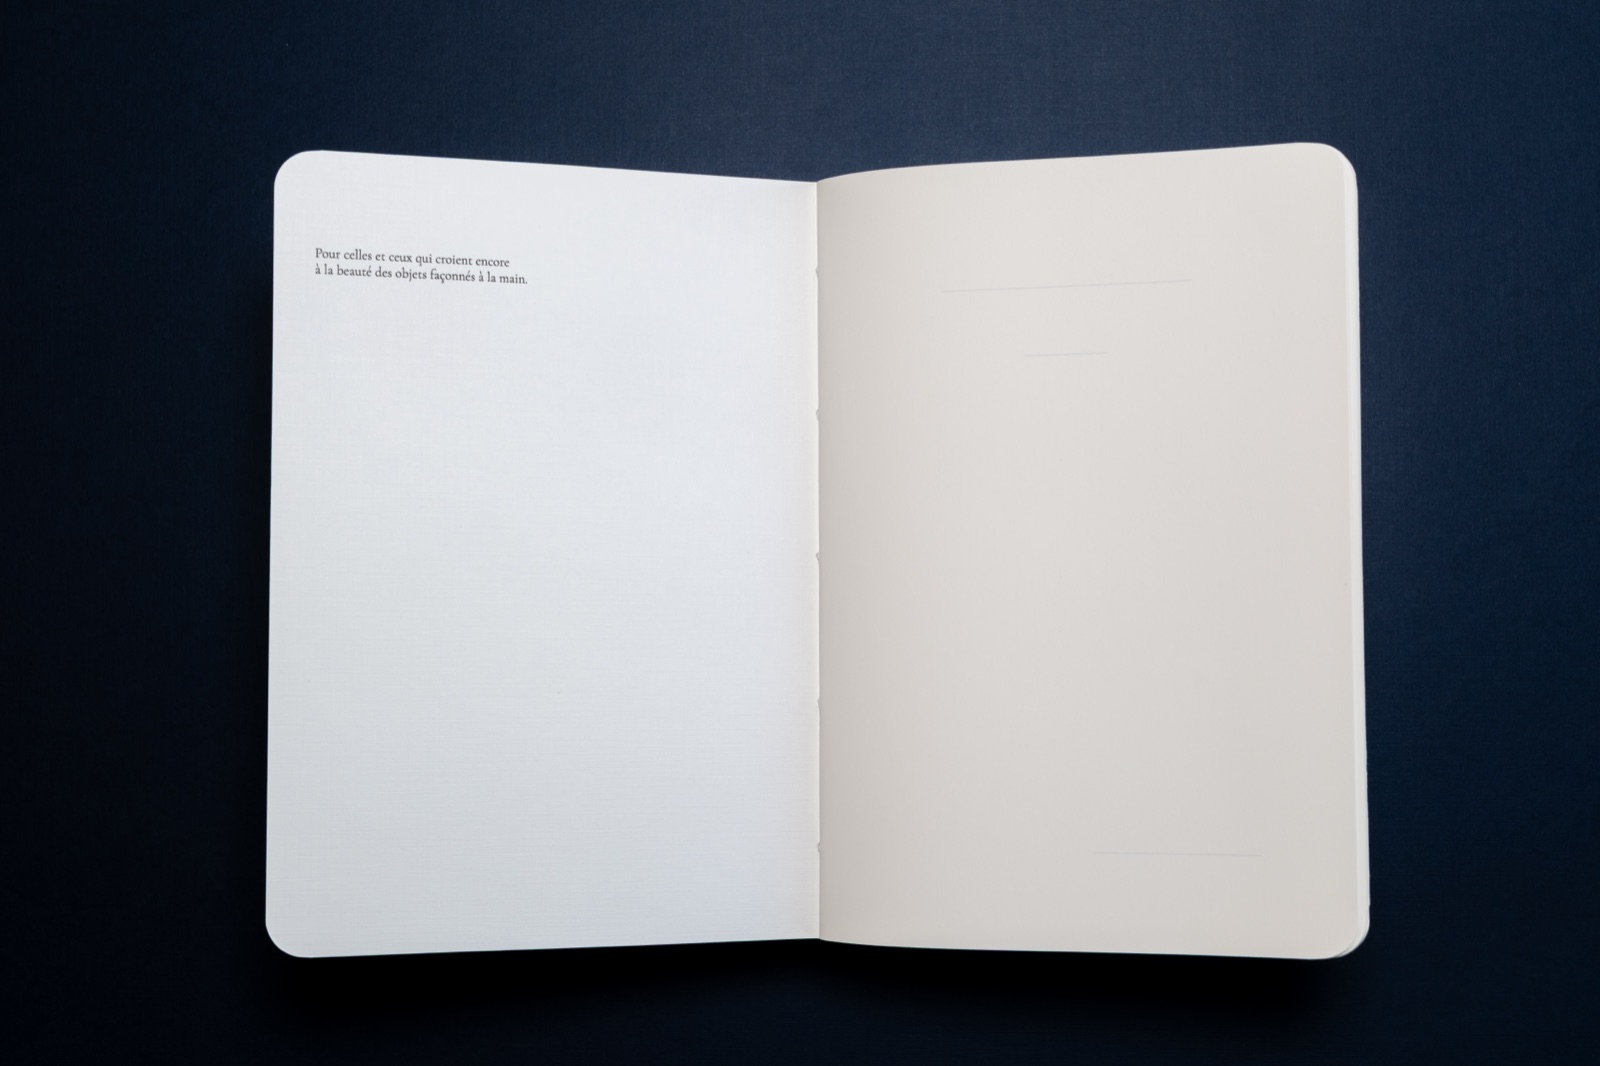
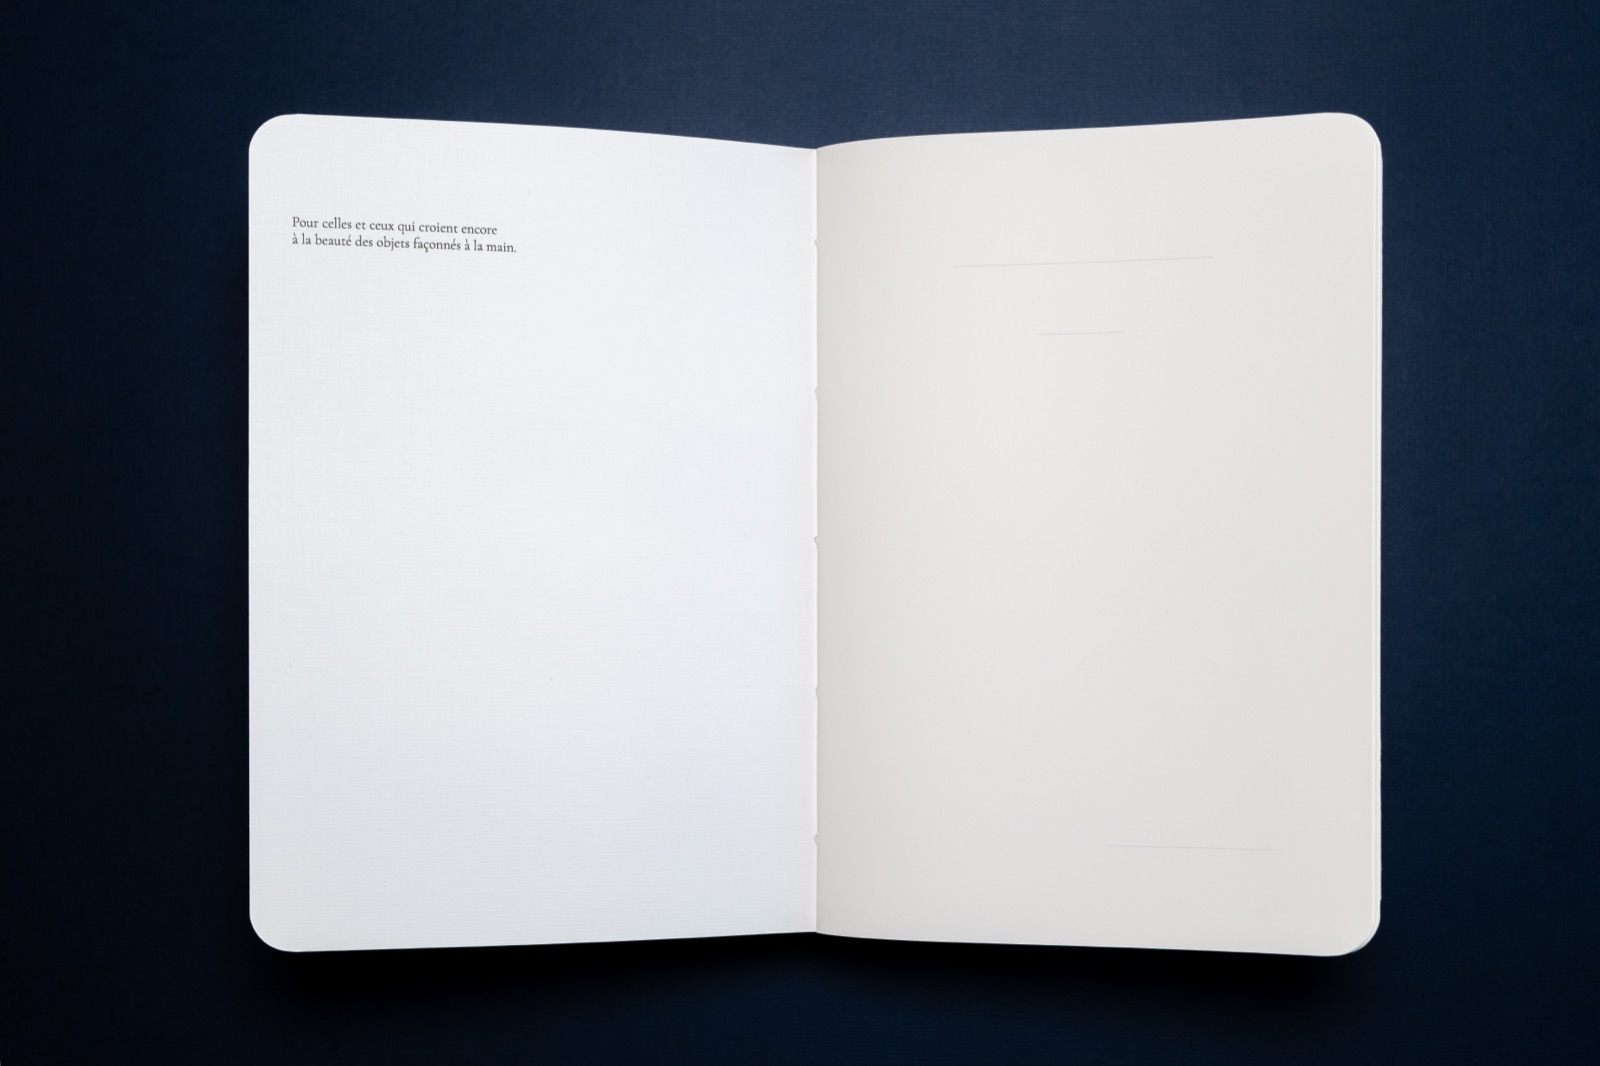
Wire five new photos and fix audit findings across Naver pages
New: red stamp colophon (URL cropped out), sharper dedication spread
and macro, pocket scale shot on robey-pocket, desk scene on Monjo pages.
Fixes: A5 hero showed the A6 notebook (swapped, wide shot moved to its
rightful home as the monjo-pocket hero), Robey posture captions matched
to the artwork, robey-001 binding image now shows the thread, packaging
captions name the pictured edition, stitch and pen claims calibrated.

Changed region(s): [[0.1562, 0.0929, 0.875, 0.8977], [0.5, 0.6811, 0.5312, 0.7739]]

diff --git a/naver/robey-001-a5.html b/naver/robey-001-a5.html
@@ -26,7 +26,7 @@
     <h2 style="margin:0 0 26px;font-size:44px;line-height:1.34;color:#211d19;">먼저, 러비가 인사를 전합니다.</h2>
     <div style="padding:40px 36px;border:1px solid #eadfce;background:#fffdf8;border-radius:12px;">
       <p style="margin:0 0 22px;font-size:28px;color:#4b443c;">안녕하세요. 제 이름은 러비입니다. 저는 서울을 조금씩 알아가는 중입니다.</p>
-      <p style="margin:0 0 22px;font-size:28px;color:#4b443c;">이번에는 꽃잎이 지는 창가에 한참 서 있었습니다. 그곳에서 무엇을 보고 어떤 생각을 했는지는, 노트와 함께 가는 편지에 적어 두었습니다.</p>
+      <p style="margin:0 0 22px;font-size:28px;color:#4b443c;">이번에는 꽃잎이 지는 창가에 한참 머물렀습니다. 그곳에서 무엇을 보고 어떤 생각을 했는지는, 노트와 함께 가는 편지에 적어 두었습니다.</p>
       <p style="margin:0 0 22px;font-size:28px;color:#4b443c;">노트가 도착하면, 편지가 먼저 인사를 드릴 겁니다.</p>
       <p style="margin:0;text-align:right;font-size:28px;color:#211d19;">러비</p>
     </div>
@@ -81,7 +81,7 @@
       에디션 001은 표지의 꽃잎과 어울리는 붉은 실로 엮습니다.
       풀로 붙이지 않는 실제본이라 낱장이 빠지지 않고, 책상 위에서 180도로 평평하게 펼쳐집니다.
     </p>
-    <img src="https://studiomonjo.com/media/web/notebooks/robey-001-cover-navy-thread.jpg" alt="남색 리넨 위 에디션 001의 붉은 실 제본" style="display:block;width:100%;height:auto;border:0;border-radius:12px;">
+    <img src="https://studiomonjo.com/media/web/notebooks/robey-001-tent-navy.jpg" alt="붉은 실로 엮은 에디션 001을 위에서 본 모습" style="display:block;width:100%;height:auto;border:0;border-radius:12px;">
     <p style="margin:16px 0 30px;text-align:center;font-size:23px;color:#7a6e62;">실을 통과시키고, 당기고, 매듭을 정리하는 일까지 손으로 합니다.</p>
     <img src="https://studiomonjo.com/media/web/notebooks/robey-001-spread-navy.jpg" alt="앞뒤 표지를 펼친 에디션 001과 붉은 실" style="display:block;width:100%;height:auto;border:0;border-radius:12px;">
     <p style="margin:16px 0 0;text-align:center;font-size:23px;color:#7a6e62;">앞뒤 표지와 붉은 실, 그리고 에디션 표기.</p>
@@ -91,10 +91,10 @@
   <div style="padding:66px 46px;background:#ffffff;border-bottom:1px solid #efe5d8;">
     <p style="margin:0 0 14px;font-size:22px;font-weight:800;color:#9a5139;letter-spacing:0.08em;">안쪽 디테일</p>
     <h2 style="margin:0 0 26px;font-size:44px;line-height:1.34;color:#211d19;">열어 보면 작은 표시들이 있습니다.</h2>
-    <img src="https://studiomonjo.com/media/web/notebooks/dedication-spread-navy.jpg" alt="안쪽에 적힌 프랑스어 헌사가 보이는 펼침면" style="display:block;width:100%;height:auto;border:0;border-radius:12px;">
+    <img src="https://studiomonjo.com/media/web/notebooks/dedication-macro.jpg" alt="안쪽 표지에 적힌 프랑스어 헌사" style="display:block;width:100%;height:auto;border:0;border-radius:12px;">
     <p style="margin:16px 0 30px;text-align:center;font-size:23px;color:#7a6e62;">손으로 만든 물건의 아름다움을 여전히 믿는 사람들을 위하여.</p>
-    <img src="https://studiomonjo.com/media/web/notebooks/colophon-merci-macro.jpg" alt="마지막 장의 프랑스어 인사" style="display:block;width:100%;height:auto;border:0;border-radius:12px;">
-    <p style="margin:16px 0 0;text-align:center;font-size:23px;color:#7a6e62;">마지막 장의 짧은 인사. 이 노트에 생명을 주셔서 감사합니다.</p>
+    <img src="https://studiomonjo.com/media/web/notebooks/colophon-stamp-merci.jpg" alt="마지막 장의 붉은 인장과 프랑스어 인사" style="display:block;width:100%;height:auto;border:0;border-radius:12px;">
+    <p style="margin:16px 0 0;text-align:center;font-size:23px;color:#7a6e62;">마지막 장의 붉은 인장과 짧은 인사. 이 노트에 생명을 주셔서 감사합니다.</p>
   </div>
 
   <!-- MOVEMENT 3 · 작업실 (canonical, fixed across all products) -->
@@ -140,7 +140,7 @@
     <!-- 모바일에서는 GIF가 재생되지 않으므로 3컷 스틸 스트립이 먼저, GIF가 그 아래 (하우스 패턴) -->
     <img src="https://studiomonjo.com/media/web/notebooks/robey-paper-ink-handling-strip.jpg" alt="만년필 잉크가 종이 위에 선명하게 남는 세 장면" style="display:block;width:100%;height:auto;border:0;border-radius:12px;">
     <p style="margin:16px 0 30px;text-align:center;font-size:23px;color:#7a6e62;">잉크가 머무르고, 선이 남고, 번짐이 적습니다.</p>
-    <img src="https://studiomonjo.com/media/web/notebooks/robey-paper-ink-handling-naver.gif" alt="만년필로 속지에 글씨를 쓰는 움직임" style="display:block;width:100%;height:auto;border:0;border-radius:12px;">
+    <img src="https://studiomonjo.com/media/web/notebooks/robey-paper-ink-handling-naver.gif" alt="펜으로 속지에 글씨를 쓰는 움직임" style="display:block;width:100%;height:auto;border:0;border-radius:12px;">
     <p style="margin:16px 0 0;text-align:center;font-size:23px;color:#7a6e62;">실제 필기 모습입니다.</p>
   </div>
 
@@ -195,6 +195,7 @@
       그대로 선물하실 수 있습니다.
     </p>
     <img src="https://studiomonjo.com/media/web/notebooks/packaging-wrapped.jpg" alt="반투명 종이에 싸고 끈으로 묶은 노트와 손으로 쓴 카드" style="display:block;width:100%;height:auto;border:0;border-radius:12px;">
+    <p style="margin:16px 0 0;text-align:center;font-size:23px;color:#7a6e62;">모든 주문을 같은 방식으로 포장합니다. 사진은 작은 도서관 에디션입니다.</p>
   </div>
 
   <!-- MOVEMENT 4 · FAQ -->

diff --git a/naver/monjo-a5.html b/naver/monjo-a5.html
@@ -19,7 +19,7 @@
     </p>
   </div>
 
-  <img src="https://studiomonjo.com/media/web/notebooks/monjo-cover-navy-wide.jpg" alt="남색 리넨 위에 놓인 몬조 카이에" style="display:block;width:100%;height:auto;border:0;">
+  <img src="https://studiomonjo.com/media/web/notebooks/monjo-cover-navy.jpg" alt="남색 리넨 위에 놓인 몬조 카이에" style="display:block;width:100%;height:auto;border:0;">
 
   <div style="padding:66px 46px;background:#ffffff;border-bottom:1px solid #deded9;">
     <p style="margin:0 0 14px;font-size:23px;font-weight:850;color:#5b5b56;letter-spacing:0.08em;">물건의 정체</p>
@@ -32,8 +32,7 @@
       표지는 흰색이고 작은 몬조 마크만 있습니다.
       책상 위에 자리를 잡는 A5 크기, 만년필이 편한 종이로 만든 손제본 노트입니다.
     </p>
-    <img src="https://studiomonjo.com/media/web/notebooks/monjo-cover-navy.jpg" alt="남색 리넨 위 몬조 카이에, 흰 표지와 작은 마크" style="display:block;width:100%;height:auto;border:0;border-radius:8px;">
-    <p style="margin:16px 0 0;text-align:center;font-size:23px;color:#6d6d67;">흰 표지, 작은 마크, 검은 실. 그것이 전부입니다.</p>
+    <p style="margin:28px 0 0;text-align:center;font-size:23px;color:#6d6d67;">흰 표지, 작은 마크, 검은 실. 그것이 전부입니다.</p>
   </div>
 
   <!-- MOVEMENT 2 · 물건 -->
@@ -45,7 +44,7 @@
       등이 꺾여도 낱장이 빠지지 않고, 책상 위에서 평평하게 펼쳐져 첫 줄부터 마지막 줄까지 손에 걸리는 곳이 없습니다.
     </p>
     <img src="https://studiomonjo.com/media/web/notebooks/monjo-tent-navy.jpg" alt="검은 실로 엮은 등을 가까이에서 본 모습" style="display:block;width:100%;height:auto;border:0;border-radius:8px;">
-    <p style="margin:16px 0 30px;text-align:center;font-size:23px;color:#6d6d67;">흰 표지와 검은 실. 손제본의 구멍과 매듭.</p>
+    <p style="margin:16px 0 30px;text-align:center;font-size:23px;color:#6d6d67;">흰 표지와 검은 실. 손으로 엮은 바늘땀입니다.</p>
     <img src="https://studiomonjo.com/media/web/notebooks/dedication-spread-navy.jpg" alt="평평하게 펼쳐진 노트와 안쪽의 프랑스어 문장" style="display:block;width:100%;height:auto;border:0;border-radius:8px;">
     <p style="margin:16px 0 0;text-align:center;font-size:23px;color:#6d6d67;">누르지 않아도 펼쳐진 채로 머무릅니다.</p>
   </div>
@@ -53,6 +52,8 @@
   <div style="padding:66px 46px;background:#ffffff;border-bottom:1px solid #deded9;">
     <p style="margin:0 0 14px;font-size:23px;font-weight:850;color:#5b5b56;letter-spacing:0.08em;">쓰임</p>
     <h2 style="margin:0 0 26px;font-size:44px;line-height:1.34;color:#171717;">책상 위에 자리를 잡고 쓰는 노트입니다.</h2>
+    <img src="https://studiomonjo.com/media/web/notebooks/monjo-desk-laptop.jpg" alt="노트북 옆에 펼쳐 둔 노트에 만년필로 쓰는 손" style="display:block;width:100%;height:auto;border:0;border-radius:8px;">
+    <p style="margin:16px 0 30px;text-align:center;font-size:23px;color:#6d6d67;">화면 옆에 종이 한 권.</p>
     <div style="margin:0 0 18px;padding:26px 28px;border:1px solid #dcdcd7;background:#f8f8f5;border-radius:8px;">
       <h3 style="margin:0 0 10px;font-size:31px;color:#171717;">회의와 미팅</h3>
       <p style="margin:0;font-size:27px;color:#4a4a46;">결정된 일과 다음 행동을 한곳에 모읍니다. 회의실에서 꺼내도 조용한 흰 표지입니다.</p>
@@ -112,7 +113,7 @@
     <!-- 모바일에서는 GIF가 재생되지 않으므로 3컷 스틸 스트립이 먼저, GIF가 그 아래 (하우스 패턴) -->
     <img src="https://studiomonjo.com/media/web/notebooks/robey-paper-ink-handling-strip.jpg" alt="만년필 잉크가 종이 위에 선명하게 남는 세 장면" style="display:block;width:100%;height:auto;border:0;border-radius:8px;">
     <p style="margin:16px 0 30px;text-align:center;font-size:23px;color:#6d6d67;">잉크가 머무르고, 선이 남고, 번짐이 적습니다.</p>
-    <img src="https://studiomonjo.com/media/web/notebooks/robey-paper-ink-handling-naver.gif" alt="만년필로 속지에 글씨를 쓰는 움직임" style="display:block;width:100%;height:auto;border:0;border-radius:8px;">
+    <img src="https://studiomonjo.com/media/web/notebooks/robey-paper-ink-handling-naver.gif" alt="펜으로 속지에 글씨를 쓰는 움직임" style="display:block;width:100%;height:auto;border:0;border-radius:8px;">
     <p style="margin:16px 0 0;text-align:center;font-size:23px;color:#6d6d67;">실제 필기 모습입니다.</p>
   </div>
 
@@ -170,6 +171,7 @@
       그대로 선물하실 수 있습니다.
     </p>
     <img src="https://studiomonjo.com/media/web/notebooks/packaging-wrapped.jpg" alt="반투명 종이에 싸고 끈으로 묶은 노트와 손으로 쓴 카드" style="display:block;width:100%;height:auto;border:0;border-radius:8px;">
+    <p style="margin:16px 0 0;text-align:center;font-size:23px;color:#6d6d67;">모든 주문을 같은 방식으로 포장합니다. 사진 속 노트는 러비 에디션입니다.</p>
   </div>
 
   <div style="padding:66px 46px;background:#f8f8f5;border-bottom:1px solid #deded9;">

diff --git a/naver/robey-002-a5.html b/naver/robey-002-a5.html
@@ -81,7 +81,7 @@
       에디션 002는 표지의 풍선과 어울리는 주황빛 실로 엮습니다.
       풀로 붙이지 않는 실제본이라 낱장이 빠지지 않고, 책상 위에서 180도로 평평하게 펼쳐집니다.
     </p>
-    <img src="https://studiomonjo.com/media/web/notebooks/robey-002-tent-navy.jpg" alt="주황빛 실로 엮은 등을 가까이에서 본 모습" style="display:block;width:100%;height:auto;border:0;border-radius:12px;">
+    <img src="https://studiomonjo.com/media/web/notebooks/robey-002-tent-navy.jpg" alt="주황빛 실로 엮은 에디션 002를 위에서 본 모습" style="display:block;width:100%;height:auto;border:0;border-radius:12px;">
     <p style="margin:16px 0 30px;text-align:center;font-size:23px;color:#7a6e62;">실을 통과시키고, 당기고, 매듭을 정리하는 일까지 손으로 합니다.</p>
     <img src="https://studiomonjo.com/media/web/notebooks/thread-macro-orange.jpg" alt="책 속 골에 자리 잡은 주황빛 실을 가까이에서 본 모습" style="display:block;width:100%;height:auto;border:0;border-radius:12px;">
     <p style="margin:16px 0 0;text-align:center;font-size:23px;color:#7a6e62;">책 속 골에 자리 잡은 주황빛 실.</p>
@@ -91,10 +91,10 @@
   <div style="padding:66px 46px;background:#ffffff;border-bottom:1px solid #efe5d8;">
     <p style="margin:0 0 14px;font-size:22px;font-weight:800;color:#9a5139;letter-spacing:0.08em;">안쪽 디테일</p>
     <h2 style="margin:0 0 26px;font-size:44px;line-height:1.34;color:#211d19;">열어 보면 작은 표시들이 있습니다.</h2>
-    <img src="https://studiomonjo.com/media/web/notebooks/dedication-spread-navy.jpg" alt="안쪽에 적힌 프랑스어 헌사가 보이는 펼침면" style="display:block;width:100%;height:auto;border:0;border-radius:12px;">
+    <img src="https://studiomonjo.com/media/web/notebooks/dedication-macro.jpg" alt="안쪽 표지에 적힌 프랑스어 헌사" style="display:block;width:100%;height:auto;border:0;border-radius:12px;">
     <p style="margin:16px 0 30px;text-align:center;font-size:23px;color:#7a6e62;">손으로 만든 물건의 아름다움을 여전히 믿는 사람들을 위하여.</p>
-    <img src="https://studiomonjo.com/media/web/notebooks/colophon-merci-macro.jpg" alt="마지막 장의 프랑스어 인사" style="display:block;width:100%;height:auto;border:0;border-radius:12px;">
-    <p style="margin:16px 0 0;text-align:center;font-size:23px;color:#7a6e62;">마지막 장의 짧은 인사. 이 노트에 생명을 주셔서 감사합니다.</p>
+    <img src="https://studiomonjo.com/media/web/notebooks/colophon-stamp-merci.jpg" alt="마지막 장의 붉은 인장과 프랑스어 인사" style="display:block;width:100%;height:auto;border:0;border-radius:12px;">
+    <p style="margin:16px 0 0;text-align:center;font-size:23px;color:#7a6e62;">마지막 장의 붉은 인장과 짧은 인사. 이 노트에 생명을 주셔서 감사합니다.</p>
   </div>
 
   <!-- MOVEMENT 3 · 작업실 (canonical, fixed across all products) -->
@@ -140,7 +140,7 @@
     <!-- 모바일에서는 GIF가 재생되지 않으므로 3컷 스틸 스트립이 먼저, GIF가 그 아래 (하우스 패턴) -->
     <img src="https://studiomonjo.com/media/web/notebooks/robey-paper-ink-handling-strip.jpg" alt="만년필 잉크가 종이 위에 선명하게 남는 세 장면" style="display:block;width:100%;height:auto;border:0;border-radius:12px;">
     <p style="margin:16px 0 30px;text-align:center;font-size:23px;color:#7a6e62;">잉크가 머무르고, 선이 남고, 번짐이 적습니다.</p>
-    <img src="https://studiomonjo.com/media/web/notebooks/robey-paper-ink-handling-naver.gif" alt="만년필로 속지에 글씨를 쓰는 움직임" style="display:block;width:100%;height:auto;border:0;border-radius:12px;">
+    <img src="https://studiomonjo.com/media/web/notebooks/robey-paper-ink-handling-naver.gif" alt="펜으로 속지에 글씨를 쓰는 움직임" style="display:block;width:100%;height:auto;border:0;border-radius:12px;">
     <p style="margin:16px 0 0;text-align:center;font-size:23px;color:#7a6e62;">실제 필기 모습입니다.</p>
   </div>
 
@@ -195,6 +195,7 @@
       그대로 선물하실 수 있습니다.
     </p>
     <img src="https://studiomonjo.com/media/web/notebooks/packaging-wrapped.jpg" alt="반투명 종이에 싸고 끈으로 묶은 노트와 손으로 쓴 카드" style="display:block;width:100%;height:auto;border:0;border-radius:12px;">
+    <p style="margin:16px 0 0;text-align:center;font-size:23px;color:#7a6e62;">모든 주문을 같은 방식으로 포장합니다. 사진은 작은 도서관 에디션입니다.</p>
   </div>
 
   <!-- MOVEMENT 4 · FAQ -->

diff --git a/naver/robey-003-a5.html b/naver/robey-003-a5.html
@@ -89,10 +89,10 @@
   <div style="padding:66px 46px;background:#ffffff;border-bottom:1px solid #efe5d8;">
     <p style="margin:0 0 14px;font-size:22px;font-weight:800;color:#9a5139;letter-spacing:0.08em;">안쪽 디테일</p>
     <h2 style="margin:0 0 26px;font-size:44px;line-height:1.34;color:#211d19;">열어 보면 작은 표시들이 있습니다.</h2>
-    <img src="https://studiomonjo.com/media/web/notebooks/dedication-spread-navy.jpg" alt="안쪽에 적힌 프랑스어 헌사가 보이는 펼침면" style="display:block;width:100%;height:auto;border:0;border-radius:12px;">
+    <img src="https://studiomonjo.com/media/web/notebooks/dedication-macro.jpg" alt="안쪽 표지에 적힌 프랑스어 헌사" style="display:block;width:100%;height:auto;border:0;border-radius:12px;">
     <p style="margin:16px 0 30px;text-align:center;font-size:23px;color:#7a6e62;">손으로 만든 물건의 아름다움을 여전히 믿는 사람들을 위하여.</p>
-    <img src="https://studiomonjo.com/media/web/notebooks/colophon-merci-macro.jpg" alt="마지막 장의 프랑스어 인사" style="display:block;width:100%;height:auto;border:0;border-radius:12px;">
-    <p style="margin:16px 0 0;text-align:center;font-size:23px;color:#7a6e62;">마지막 장의 짧은 인사. 이 노트에 생명을 주셔서 감사합니다.</p>
+    <img src="https://studiomonjo.com/media/web/notebooks/colophon-stamp-merci.jpg" alt="마지막 장의 붉은 인장과 프랑스어 인사" style="display:block;width:100%;height:auto;border:0;border-radius:12px;">
+    <p style="margin:16px 0 0;text-align:center;font-size:23px;color:#7a6e62;">마지막 장의 붉은 인장과 짧은 인사. 이 노트에 생명을 주셔서 감사합니다.</p>
   </div>
 
   <!-- BLOCK 5 · MAKER -->
@@ -122,7 +122,7 @@
       <p style="margin:0;padding:20px 0;border-bottom:1px solid #e3d8c8;font-size:27px;color:#4b443c;"><strong style="color:#211d19;">넷</strong>&#160;&#160;매듭을 정리하고 눌러 평평하게 만듭니다.</p>
       <p style="margin:0;padding:20px 0;border-bottom:1px solid #e3d8c8;font-size:27px;color:#4b443c;"><strong style="color:#211d19;">다섯</strong>&#160;&#160;한 권씩 검수합니다.</p>
     </div>
-    <p style="margin:16px 0 0;text-align:center;font-size:23px;color:#7a6e62;">기계가 아니라 손의 속도로 만듭니다.</p>
+    <p style="margin:28px 0 0;text-align:center;font-size:23px;color:#7a6e62;">기계가 아니라 손의 속도로 만듭니다.</p>
   </div>
 
   <!-- MOVEMENT 4 · 안심: 종이 -->
@@ -137,7 +137,7 @@
     <!-- 모바일에서는 GIF가 재생되지 않으므로 3컷 스틸 스트립이 먼저, GIF가 그 아래 (하우스 패턴) -->
     <img src="https://studiomonjo.com/media/web/notebooks/robey-paper-ink-handling-strip.jpg" alt="만년필 잉크가 종이 위에 선명하게 남는 세 장면" style="display:block;width:100%;height:auto;border:0;border-radius:12px;">
     <p style="margin:16px 0 30px;text-align:center;font-size:23px;color:#7a6e62;">잉크가 머무르고, 선이 남고, 번짐이 적습니다.</p>
-    <img src="https://studiomonjo.com/media/web/notebooks/robey-paper-ink-handling-naver.gif" alt="만년필로 속지에 글씨를 쓰는 움직임" style="display:block;width:100%;height:auto;border:0;border-radius:12px;">
+    <img src="https://studiomonjo.com/media/web/notebooks/robey-paper-ink-handling-naver.gif" alt="펜으로 속지에 글씨를 쓰는 움직임" style="display:block;width:100%;height:auto;border:0;border-radius:12px;">
     <p style="margin:16px 0 0;text-align:center;font-size:23px;color:#7a6e62;">실제 필기 모습입니다.</p>
   </div>
 
@@ -192,6 +192,7 @@
       그대로 선물하실 수 있습니다.
     </p>
     <img src="https://studiomonjo.com/media/web/notebooks/packaging-wrapped.jpg" alt="반투명 종이에 싸고 끈으로 묶은 노트와 손으로 쓴 카드" style="display:block;width:100%;height:auto;border:0;border-radius:12px;">
+    <p style="margin:16px 0 0;text-align:center;font-size:23px;color:#7a6e62;">모든 주문을 같은 방식으로 포장합니다. 사진은 작은 도서관 에디션입니다.</p>
   </div>
 
   <!-- BLOCK 7 · FAQ -->

diff --git a/naver/robey-pocket.html b/naver/robey-pocket.html
@@ -43,12 +43,12 @@
     <div style="margin:0 0 34px;">
       <img src="https://studiomonjo.com/media/web/notebooks/robey-001-art-full.jpg" alt="꽃잎이 지는 창가의 러비 일러스트" style="display:block;width:100%;height:auto;border:0;border-radius:12px;">
       <h3 style="margin:18px 0 8px;font-size:31px;color:#211d19;">001 꽃잎 · 붉은 실</h3>
-      <p style="margin:0;font-size:27px;color:#51483f;">꽃잎이 지는 창가에 선 러비.</p>
+      <p style="margin:0;font-size:27px;color:#51483f;">꽃잎이 지는 창가의 러비.</p>
     </div>
     <div style="margin:0 0 34px;">
       <img src="https://studiomonjo.com/media/web/notebooks/robey-002-art-full.jpg" alt="주황빛 풍선을 든 러비 일러스트" style="display:block;width:100%;height:auto;border:0;border-radius:12px;">
       <h3 style="margin:18px 0 8px;font-size:31px;color:#211d19;">002 풍선 · 주황빛 실</h3>
-      <p style="margin:0;font-size:27px;color:#51483f;">주황빛 풍선을 따라 하늘을 보는 러비.</p>
+      <p style="margin:0;font-size:27px;color:#51483f;">주황빛 풍선을 든 러비.</p>
     </div>
     <div style="margin:0;">
       <img src="https://studiomonjo.com/media/web/notebooks/robey-003-art-full.jpg" alt="높은 책장 아래에서 책을 읽는 러비 일러스트" style="display:block;width:100%;height:auto;border:0;border-radius:12px;">
@@ -63,9 +63,11 @@
     <h2 style="margin:0 0 26px;font-size:44px;line-height:1.34;color:#211d19;">엽서와 같은 크기입니다.</h2>
     <p style="margin:0 0 30px;font-size:29px;color:#4b443c;">
       A6, 약 105 × 148mm, 48쪽.
-      손바닥 위에 올라가고, 재킷 안주머니와 가방 앞칸에 들어갑니다.
+      손바닥 위에 올라가고, 바지 주머니와 재킷 안주머니, 가방 앞칸에 들어갑니다.
       에디션마다 색을 맞춘 실로 엮는 실제본이라, 등이 꺾여도 낱장이 빠지지 않습니다.
     </p>
+    <img src="https://studiomonjo.com/media/web/notebooks/robey-pocket-in-pocket.jpg" alt="바지 주머니에 꽂힌 포켓 노트" style="display:block;width:100%;height:auto;border:0;border-radius:12px;">
+    <p style="margin:16px 0 30px;text-align:center;font-size:23px;color:#7a6e62;">주머니 속의 에디션 001. 크기는 세 에디션 모두 같습니다.</p>
     <img src="https://studiomonjo.com/media/web/notebooks/robey-spines-backlit.jpg" alt="세 에디션의 색실 제본을 나란히 본 모습" style="display:block;width:100%;height:auto;border:0;border-radius:12px;">
     <p style="margin:16px 0 0;text-align:center;font-size:23px;color:#7a6e62;">세 에디션의 실. 붉은, 주황빛, 남색.</p>
   </div>
@@ -138,7 +140,7 @@
     <!-- 모바일에서는 GIF가 재생되지 않으므로 3컷 스틸 스트립이 먼저, GIF가 그 아래 (하우스 패턴) -->
     <img src="https://studiomonjo.com/media/web/notebooks/robey-paper-ink-handling-strip.jpg" alt="만년필 잉크가 종이 위에 선명하게 남는 세 장면" style="display:block;width:100%;height:auto;border:0;border-radius:12px;">
     <p style="margin:16px 0 30px;text-align:center;font-size:23px;color:#7a6e62;">잉크가 머무르고, 선이 남고, 번짐이 적습니다.</p>
-    <img src="https://studiomonjo.com/media/web/notebooks/robey-paper-ink-handling-naver.gif" alt="만년필로 속지에 글씨를 쓰는 움직임" style="display:block;width:100%;height:auto;border:0;border-radius:12px;">
+    <img src="https://studiomonjo.com/media/web/notebooks/robey-paper-ink-handling-naver.gif" alt="펜으로 속지에 글씨를 쓰는 움직임" style="display:block;width:100%;height:auto;border:0;border-radius:12px;">
     <p style="margin:16px 0 0;text-align:center;font-size:23px;color:#7a6e62;">실제 필기 모습입니다.</p>
   </div>
 
@@ -171,6 +173,7 @@
       그대로 선물하실 수 있습니다.
     </p>
     <img src="https://studiomonjo.com/media/web/notebooks/packaging-wrapped.jpg" alt="반투명 종이에 싸고 끈으로 묶은 노트와 손으로 쓴 카드" style="display:block;width:100%;height:auto;border:0;border-radius:12px;">
+    <p style="margin:16px 0 0;text-align:center;font-size:23px;color:#7a6e62;">모든 주문을 같은 방식으로 포장합니다. 사진은 작은 도서관 에디션입니다.</p>
   </div>
 
   <!-- MOVEMENT 4 · FAQ -->

diff --git a/naver/monjo-pocket.html b/naver/monjo-pocket.html
@@ -17,7 +17,7 @@
     </p>
   </div>
 
-  <img src="https://studiomonjo.com/media/web/notebooks/monjo-pair-stack-navy.jpg" alt="남색 리넨 위에 겹쳐 놓은 몬조 카이에와 포켓 노트" style="display:block;width:100%;height:auto;border:0;">
+  <img src="https://studiomonjo.com/media/web/notebooks/monjo-cover-navy-wide.jpg" alt="남색 리넨 위에 놓인 몬조 포켓 노트" style="display:block;width:100%;height:auto;border:0;">
   <p style="margin:16px 46px 0;text-align:center;font-size:23px;color:#6d6d67;">작은 쪽이 포켓 노트입니다. A5 노트와 함께 놓았습니다.</p>
 
   <div style="padding:66px 46px;background:#ffffff;border-bottom:1px solid #deded9;">
@@ -63,7 +63,7 @@
       들고 다니며 등이 꺾여도 낱장이 빠지지 않고, 펼침이 좋아 선 채로 손 위에 펼쳐 쓸 수 있습니다.
     </p>
     <img src="https://studiomonjo.com/media/web/notebooks/monjo-tent-navy.jpg" alt="검은 실로 엮은 등을 가까이에서 본 모습" style="display:block;width:100%;height:auto;border:0;border-radius:8px;">
-    <p style="margin:16px 0 0;text-align:center;font-size:23px;color:#6d6d67;">흰 표지와 검은 실. 손제본의 구멍과 매듭.</p>
+    <p style="margin:16px 0 0;text-align:center;font-size:23px;color:#6d6d67;">흰 표지와 검은 실. 손으로 엮은 바늘땀입니다.</p>
   </div>
 
   <div style="padding:66px 46px;background:#f8f8f5;border-bottom:1px solid #deded9;">
@@ -135,7 +135,7 @@
     <!-- 모바일에서는 GIF가 재생되지 않으므로 3컷 스틸 스트립이 먼저, GIF가 그 아래 (하우스 패턴) -->
     <img src="https://studiomonjo.com/media/web/notebooks/robey-paper-ink-handling-strip.jpg" alt="만년필 잉크가 종이 위에 선명하게 남는 세 장면" style="display:block;width:100%;height:auto;border:0;border-radius:8px;">
     <p style="margin:16px 0 30px;text-align:center;font-size:23px;color:#6d6d67;">잉크가 머무르고, 선이 남고, 번짐이 적습니다.</p>
-    <img src="https://studiomonjo.com/media/web/notebooks/robey-paper-ink-handling-naver.gif" alt="만년필로 속지에 글씨를 쓰는 움직임" style="display:block;width:100%;height:auto;border:0;border-radius:8px;">
+    <img src="https://studiomonjo.com/media/web/notebooks/robey-paper-ink-handling-naver.gif" alt="펜으로 속지에 글씨를 쓰는 움직임" style="display:block;width:100%;height:auto;border:0;border-radius:8px;">
     <p style="margin:16px 0 0;text-align:center;font-size:23px;color:#6d6d67;">실제 필기 모습입니다.</p>
   </div>
 
@@ -188,6 +188,7 @@
       그대로 선물하실 수 있습니다.
     </p>
     <img src="https://studiomonjo.com/media/web/notebooks/packaging-wrapped.jpg" alt="반투명 종이에 싸고 끈으로 묶은 노트와 손으로 쓴 카드" style="display:block;width:100%;height:auto;border:0;border-radius:8px;">
+    <p style="margin:16px 0 0;text-align:center;font-size:23px;color:#6d6d67;">모든 주문을 같은 방식으로 포장합니다. 사진 속 노트는 러비 에디션입니다.</p>
   </div>
 
   <div style="padding:66px 46px;background:#f8f8f5;border-bottom:1px solid #deded9;">

diff --git a/naver/monjo-set.html b/naver/monjo-set.html
@@ -48,12 +48,14 @@
       등이 꺾여도 낱장이 빠지지 않고, 책상 위에서도 손 위에서도 평평하게 펼쳐집니다.
     </p>
     <img src="https://studiomonjo.com/media/web/notebooks/monjo-tent-navy.jpg" alt="검은 실로 엮은 등을 가까이에서 본 모습" style="display:block;width:100%;height:auto;border:0;border-radius:8px;">
-    <p style="margin:16px 0 0;text-align:center;font-size:23px;color:#6d6d67;">흰 표지와 검은 실. 손제본의 구멍과 매듭.</p>
+    <p style="margin:16px 0 0;text-align:center;font-size:23px;color:#6d6d67;">흰 표지와 검은 실. 손으로 엮은 바늘땀입니다.</p>
   </div>
 
   <div style="padding:66px 46px;background:#ffffff;border-bottom:1px solid #deded9;">
     <p style="margin:0 0 14px;font-size:23px;font-weight:850;color:#5b5b56;letter-spacing:0.08em;">쓰임</p>
     <h2 style="margin:0 0 26px;font-size:44px;line-height:1.34;color:#171717;">하루가 두 권 사이를 오갑니다.</h2>
+    <img src="https://studiomonjo.com/media/web/notebooks/monjo-desk-laptop.jpg" alt="노트북 옆에 펼쳐 둔 카이에에 만년필로 쓰는 손" style="display:block;width:100%;height:auto;border:0;border-radius:8px;">
+    <p style="margin:16px 0 30px;text-align:center;font-size:23px;color:#6d6d67;">아침의 책상. 노트북 옆에 카이에가 펼쳐져 있습니다.</p>
     <div style="margin:0 0 18px;padding:26px 28px;border:1px solid #dcdcd7;background:#f8f8f5;border-radius:8px;">
       <h3 style="margin:0 0 10px;font-size:31px;color:#171717;">아침, 책상에서</h3>
       <p style="margin:0;font-size:27px;color:#4a4a46;">카이에에 하루의 우선순위와 계획을 적습니다.</p>
@@ -108,7 +110,7 @@
     <!-- 모바일에서는 GIF가 재생되지 않으므로 3컷 스틸 스트립이 먼저, GIF가 그 아래 (하우스 패턴) -->
     <img src="https://studiomonjo.com/media/web/notebooks/robey-paper-ink-handling-strip.jpg" alt="만년필 잉크가 종이 위에 선명하게 남는 세 장면" style="display:block;width:100%;height:auto;border:0;border-radius:8px;">
     <p style="margin:16px 0 30px;text-align:center;font-size:23px;color:#6d6d67;">잉크가 머무르고, 선이 남고, 번짐이 적습니다.</p>
-    <img src="https://studiomonjo.com/media/web/notebooks/robey-paper-ink-handling-naver.gif" alt="만년필로 속지에 글씨를 쓰는 움직임" style="display:block;width:100%;height:auto;border:0;border-radius:8px;">
+    <img src="https://studiomonjo.com/media/web/notebooks/robey-paper-ink-handling-naver.gif" alt="펜으로 속지에 글씨를 쓰는 움직임" style="display:block;width:100%;height:auto;border:0;border-radius:8px;">
     <p style="margin:16px 0 0;text-align:center;font-size:23px;color:#6d6d67;">실제 필기 모습입니다.</p>
   </div>
 
@@ -153,6 +155,7 @@
       그대로 선물하실 수 있습니다.
     </p>
     <img src="https://studiomonjo.com/media/web/notebooks/packaging-wrapped.jpg" alt="반투명 종이에 싸고 끈으로 묶은 노트와 손으로 쓴 카드" style="display:block;width:100%;height:auto;border:0;border-radius:8px;">
+    <p style="margin:16px 0 0;text-align:center;font-size:23px;color:#6d6d67;">모든 주문을 같은 방식으로 포장합니다. 사진 속 노트는 러비 에디션입니다.</p>
   </div>
 
   <div style="padding:66px 46px;background:#f8f8f5;border-bottom:1px solid #deded9;">

diff --git a/naver/robey-pocket-3set.html b/naver/robey-pocket-3set.html
@@ -43,12 +43,12 @@
     <div style="margin:0 0 34px;">
       <img src="https://studiomonjo.com/media/web/notebooks/robey-001-art-full.jpg" alt="꽃잎이 지는 창가의 러비 일러스트" style="display:block;width:100%;height:auto;border:0;border-radius:12px;">
       <h3 style="margin:18px 0 8px;font-size:31px;color:#211d19;">001 꽃잎 · 붉은 실</h3>
-      <p style="margin:0;font-size:27px;color:#51483f;">꽃잎이 지는 창가에 선 러비.</p>
+      <p style="margin:0;font-size:27px;color:#51483f;">꽃잎이 지는 창가의 러비.</p>
     </div>
     <div style="margin:0 0 34px;">
       <img src="https://studiomonjo.com/media/web/notebooks/robey-002-art-full.jpg" alt="주황빛 풍선을 든 러비 일러스트" style="display:block;width:100%;height:auto;border:0;border-radius:12px;">
       <h3 style="margin:18px 0 8px;font-size:31px;color:#211d19;">002 풍선 · 주황빛 실</h3>
-      <p style="margin:0;font-size:27px;color:#51483f;">주황빛 풍선을 따라 하늘을 보는 러비.</p>
+      <p style="margin:0;font-size:27px;color:#51483f;">주황빛 풍선을 든 러비.</p>
     </div>
     <div style="margin:0 0 30px;">
       <img src="https://studiomonjo.com/media/web/notebooks/robey-003-art-full.jpg" alt="높은 책장 아래에서 책을 읽는 러비 일러스트" style="display:block;width:100%;height:auto;border:0;border-radius:12px;">
@@ -125,7 +125,7 @@
     <!-- 모바일에서는 GIF가 재생되지 않으므로 3컷 스틸 스트립이 먼저, GIF가 그 아래 (하우스 패턴) -->
     <img src="https://studiomonjo.com/media/web/notebooks/robey-paper-ink-handling-strip.jpg" alt="만년필 잉크가 종이 위에 선명하게 남는 세 장면" style="display:block;width:100%;height:auto;border:0;border-radius:12px;">
     <p style="margin:16px 0 30px;text-align:center;font-size:23px;color:#7a6e62;">잉크가 머무르고, 선이 남고, 번짐이 적습니다.</p>
-    <img src="https://studiomonjo.com/media/web/notebooks/robey-paper-ink-handling-naver.gif" alt="만년필로 속지에 글씨를 쓰는 움직임" style="display:block;width:100%;height:auto;border:0;border-radius:12px;">
+    <img src="https://studiomonjo.com/media/web/notebooks/robey-paper-ink-handling-naver.gif" alt="펜으로 속지에 글씨를 쓰는 움직임" style="display:block;width:100%;height:auto;border:0;border-radius:12px;">
     <p style="margin:16px 0 30px;text-align:center;font-size:23px;color:#7a6e62;">실제 필기 모습입니다.</p>
     <img src="https://studiomonjo.com/media/web/notebooks/robey-spines-backlit.jpg" alt="세 에디션의 색실 제본을 나란히 본 모습" style="display:block;width:100%;height:auto;border:0;border-radius:12px;">
     <p style="margin:16px 0 0;text-align:center;font-size:23px;color:#7a6e62;">세 에디션의 실. 붉은, 주황빛, 남색.</p>
@@ -159,6 +159,7 @@
       그대로 선물하실 수 있습니다.
     </p>
     <img src="https://studiomonjo.com/media/web/notebooks/packaging-wrapped.jpg" alt="반투명 종이에 싸고 끈으로 묶은 노트와 손으로 쓴 카드" style="display:block;width:100%;height:auto;border:0;border-radius:12px;">
+    <p style="margin:16px 0 0;text-align:center;font-size:23px;color:#7a6e62;">모든 주문을 같은 방식으로 포장합니다. 사진은 작은 도서관 에디션입니다.</p>
   </div>
 
   <!-- MOVEMENT 4 · FAQ -->